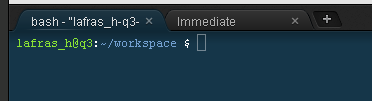
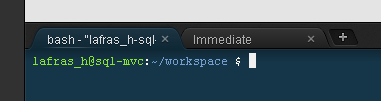
c9 tweaks

diff --git a/lib/cli/generate.js b/lib/cli/generate.js
@@ -53,7 +53,6 @@ exports.generate = function (program) {
 		setTimeout(function () {
 
 			//copy basic files
-            cp('Install.md');
             cp('README.md');
             cp('doc');
 			cp('client');

diff --git a/doc/Install-cloud9.md b/doc/Install-cloud9.md
@@ -5,7 +5,8 @@ To get started, first sign up for a free account on cloud 9 https://c9.io/
 
 Go to your dashboard.
 
-Create a new "Hosted" workspace, 
+Create a new "Hosted" workspace,
+ 
 ![Create a new Workspace](https://github.com/quale-quest/sql-mvc/blob/master/doc/c9/c9_1.png "New workspace")
 
 Set the name of your workspace as sql-mvc , leave the workspace privacy as open (free accounts only allow open workspaces)
@@ -13,17 +14,20 @@ leave the Hosting as "Hosted", and select "node.js" install :
 ![Name your new Workspace](https://github.com/quale-quest/sql-mvc/blob/master/doc/c9/c9_2.png "Name your workspace")
 
 
-Select the workspace under "MY PROJECTS" and click "Start editing" (in green)
+Your workspace will "process" for a few seconds and when it is ready you may select the 
+workspace under "MY PROJECTS" and click "Start editing" (in green)
 ![Select the sql-mvc Workspace](https://github.com/quale-quest/sql-mvc/blob/master/doc/c9/c9_3.png "Select workspace")
 
-Your workspace will load.
-At the bottom of the work space there will be an open bash terminal:
+Your workspace will load, then at the bottom of the work space there will be an open bash terminal:
 ![terminal](https://github.com/quale-quest/sql-mvc/blob/master/doc/c9/c9_terminal.png "terminal")
 
 
 Get the install script
+
 >wget https://github.com/quale-quest/sql-mvc/raw/master/install/cloud9.sh
+
 Run the install script
+
 >bash cloud9.sh
 
 The installer will run until, firebird pauses with a message (or two) prompting  "more", just press enter,
@@ -34,8 +38,8 @@ Then it will run some more...and once done (or in future ) you can run the appli
 > cd demo-app/;sudo node app.js
 
 The application will start running and compile the web pages, once done:
-
 Check the application URL, click on "Share" on the top right.
+
 ![Click share](https://github.com/quale-quest/sql-mvc/blob/master/doc/c9/c9_share_1.png "Click share")
 
 And check the Application URL.

diff --git a/README.md b/README.md
@@ -108,10 +108,10 @@ default framework and theme is just to give you a quicc start.
 # SQL-MVC Getting_Started,
 
 ##Cloud 9 IDE
-[Github - Quick and easy to get going](https://github.com/quale-quest/sql-mvc/blob/master/doc/Install-cloud9.md)
+[Quick and easy to get going](https://github.com/quale-quest/sql-mvc/blob/master/doc/Install-cloud9.md)
 
 ##Tutorials at :
-[Github - Install.md](https://github.com/quale-quest/sql-mvc/blob/master/doc/Tutorials.md)
+[Tutorials.md](https://github.com/quale-quest/sql-mvc/blob/master/doc/Tutorials.md)
 
  
 ##Programmers Manual at : 
@@ -120,7 +120,7 @@ default framework and theme is just to give you a quicc start.
 
 
 ##Install instructions for the hardcore Linux / Node developer at :
- [Github - Install.md](https://github.com/quale-quest/sql-mvc/blob/master/doc/Install-linux.md)
+[Install.md](https://github.com/quale-quest/sql-mvc/blob/master/doc/Install-linux.md)
 
 
 

diff --git a/doc/Getting_Started.md b/doc/Getting_Started.md
@@ -1,10 +1,10 @@
 # SQL-MVC Getting_Started,
 
 ##Cloud 9 IDE
-[Github - Quick and easy to get going](https://github.com/quale-quest/sql-mvc/blob/master/doc/Install-cloud9.md)
+[Quick and easy to get going](https://github.com/quale-quest/sql-mvc/blob/master/doc/Install-cloud9.md)
 
 ##Tutorials at :
-[Github - Tutorials home](https://github.com/quale-quest/sql-mvc/blob/master/doc/Tutorials.md)
+[Tutorials](https://github.com/quale-quest/sql-mvc/blob/master/doc/Tutorials.md)
 
  
 ##Programmers Manual at : 
@@ -13,5 +13,5 @@
 
 
 ##Install instructions for the hardcore Linux / Node developer at :
- [Github - Install.md](https://github.com/quale-quest/sql-mvc/blob/master/doc/Install-linux.md)
+[Install.md](https://github.com/quale-quest/sql-mvc/blob/master/doc/Install-linux.md)
 
